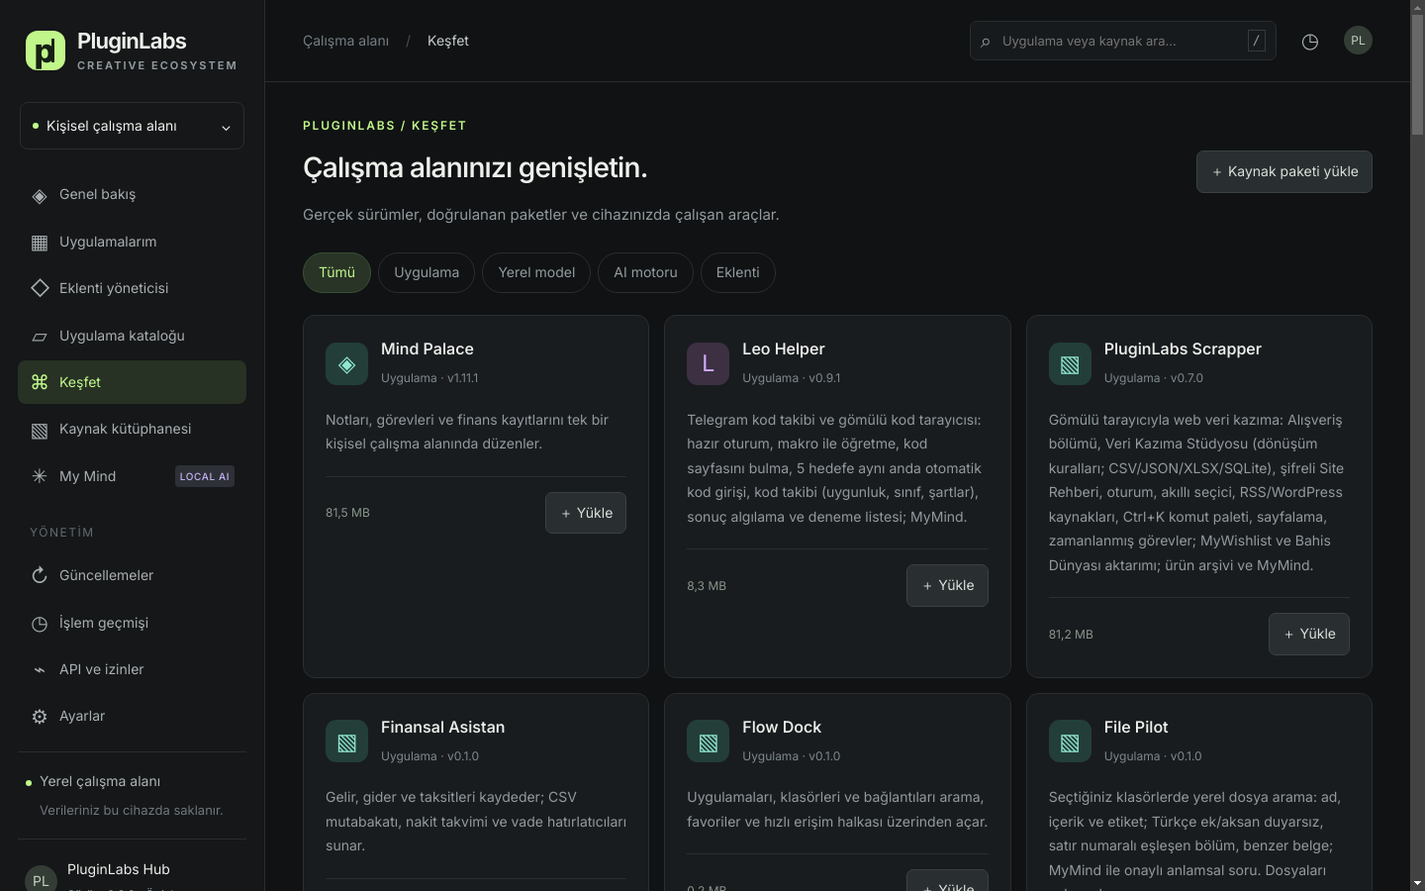
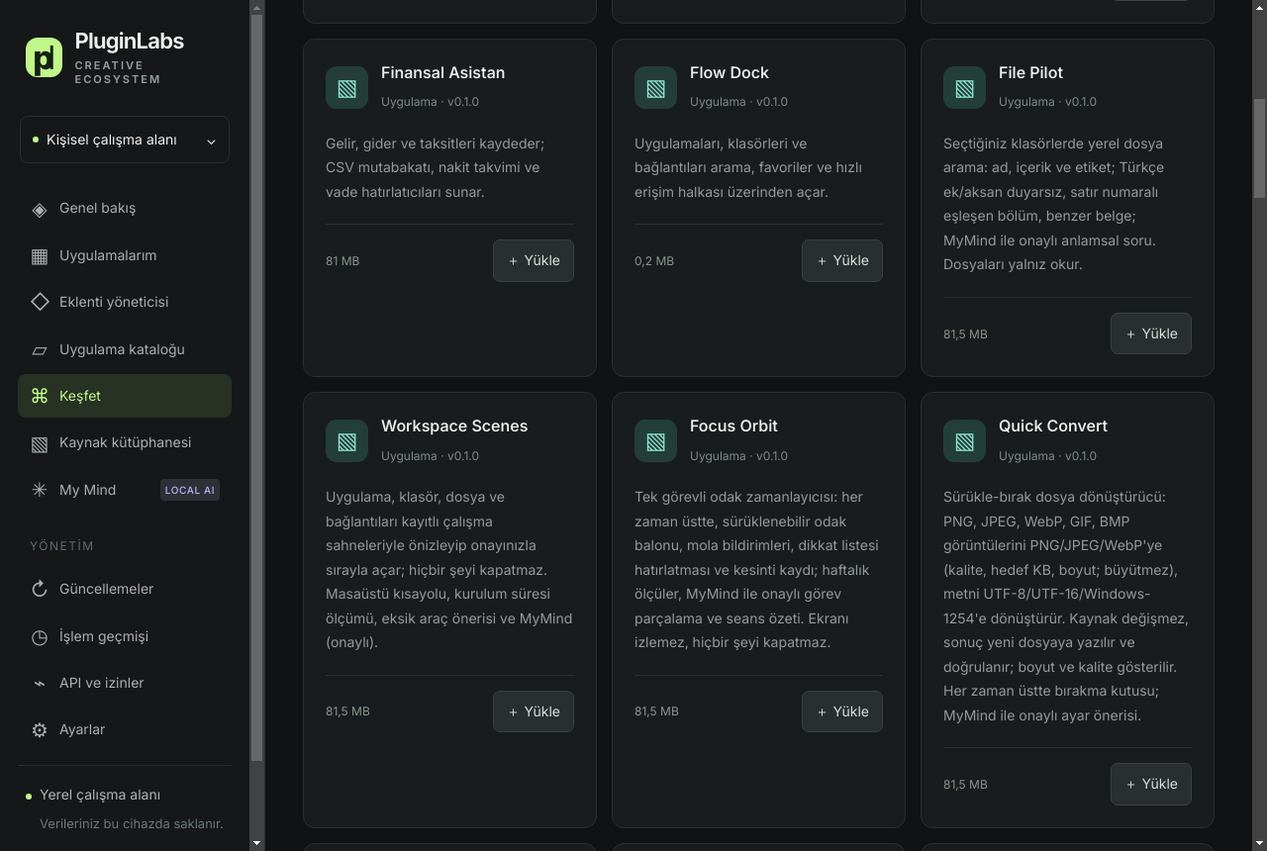
[PL-028] Quick Convert 0.1.0 yayımlandı; Hub 0.4.9 kataloğuna eklendi
- pluginlabs-dagitim quick-convert-v0.1.0 (Windows runner 41290845836: npm test +
  duman testi, vault: true; kurulum + taşınabilir exe, SHA256SUMS, BUILD-INFO,
  5 Windows ekran görüntüsü; kaynak 436a8d9)
- src/catalog.cjs: quick-convert 0.1.0 (taşınabilir exe; boyut ve SHA-256
  dağıtım deposundaki dosyadan)
- Ürün ve uygulama README'leri (Windows + Linux ekran görüntüleri), registry,
  UYGULAMALAR, AKTIF-ISLER, Hub sürüm notu, Keşfet ekran görüntüsü

Claude-Session: https://claude.ai/code/session_015ofa8BMueaPx4ZfF3x6nEK

diff --git a/apps/03-masaustu-dosya-araclari-ve-widgetlar/PL-028-quick-convert/app/README.md b/apps/03-masaustu-dosya-araclari-ve-widgetlar/PL-028-quick-convert/app/README.md
@@ -1,0 +1,74 @@
+# Quick Convert (PL-028) — Windows uygulaması
+
+> Günlük görsel ve metin dönüşümlerini farklı sitelere yüklemeden yapmak isteyenler için: dosyayı bırakın, ayarı seçin (ya da ne istediğinizi yazın), sonuç **yeni dosyaya** kaydedilsin. Kaynak dosya değişmez; dosyalar hiçbir yere yüklenmez.
+
+Ürün kartı (Notion kaynağı, kısaltılmamış): [../README.md](../README.md) · Sürüm notları: [RELEASE-NOTES.md](RELEASE-NOTES.md)
+
+**İndir (Windows, imzasız önizleme):** https://github.com/timdesigners-pixel/pluginlabs-dagitim/releases/tag/quick-convert-v0.1.0 — kurulum `QuickConvert-0.1.0-Windows-x64.exe` ya da taşınabilir `QuickConvert-0.1.0-Windows-Portable-x64.exe`; `SHA256SUMS-windows.txt` ile doğrulayın. 01.11.2026 08:56 UTC'de `pluginlabs-dagitim` iş akışıyla ([çalıştırma 41290845836](https://github.com/timdesigners-pixel/pluginlabs-dagitim/actions/runs/41290845836)) Windows runner'ında derlendi: `npm test` + gerçek Electron penceresinde duman testi geçti (Windows kasası/DPAPI etkin); kaynak commit `436a8d9`. Hub kataloğunda (Hub 0.4.9).
+
+## Ekran görüntüleri
+
+**Windows (release'i üreten Windows runner'ı, 01.11.2026, kaynak `436a8d9`, test verisi):**
+
+| Kuyruk ve sonuçlar (boyut, ölçü, kalite) | Kurala dayalı ayar önerisi |
+| --- | --- |
+| ![Windows kuyruk](docs/screenshots/windows-masaustu-01-kuyruk-ve-sonuclar.png) | ![Windows öneri](docs/screenshots/windows-masaustu-02-oneri.png) |
+| **MyMind ayar önerisi** | **Dönüşüm geçmişi** |
+| ![Windows MyMind](docs/screenshots/windows-masaustu-03-mymind-onerisi.png) | ![Windows geçmiş](docs/screenshots/windows-masaustu-04-gecmis.png) |
+| **Bırakma kutusu** | |
+| ![Windows bırakma kutusu](docs/screenshots/windows-masaustu-05-birakma-kutusu.png) | |
+
+**Linux xvfb (aynı kaynak):**
+
+Gerçek uygulama pencereleri; otomatik duman testinin test verisiyle (üretilmiş görüntüler ve metinler, taklit Hub) **Linux xvfb** üzerinde alınmıştır (01.11.2026, kaynak `436a8d9`).
+
+| Kuyruk ve sonuçlar (boyut, ölçü, kalite) | Kurala dayalı ayar önerisi |
+| --- | --- |
+| ![Kuyruk ve sonuçlar](docs/screenshots/masaustu-01-kuyruk-ve-sonuclar.png) | ![Ayar önerisi](docs/screenshots/masaustu-02-oneri.png) |
+| **MyMind ayar önerisi (onaylı, yalnız izinli alanlar)** | **Dönüşüm geçmişi** |
+| ![MyMind önerisi](docs/screenshots/masaustu-03-mymind-onerisi.png) | ![Geçmiş](docs/screenshots/masaustu-04-gecmis.png) |
+| **Bırakma kutusu (her zaman üstte)** | |
+| ![Bırakma kutusu](docs/screenshots/masaustu-05-birakma-kutusu.png) | |
+
+## Ne yapar
+- **Sürükle-bırak:** ana penceredeki alana ya da masaüstünde her zaman üstte duran, sürüklenebilir **bırakma kutusuna** bırakın (konumu hatırlanır). Bırakma kutusu isteğe bağlı olarak geçerli ayarlarla hemen dönüştürür. "Dosya seç" ve Windows'ta "Birlikte aç" da çalışır.
+- **Görüntü:** PNG, JPEG, WebP, GIF (ilk kare), BMP → PNG, JPEG, WebP. Kalite; **hedef boyut** ("en fazla … KB": kalite kendiliğinden düşürülür); kutuya sığdırma ya da yüzde (oran korunur, **asla büyütülmez**); JPEG için saydam alan rengi. Hazır ayarlar: E-posta/WhatsApp, Web (WebP), Instagram 1080×1350, Kayıpsız PNG, En fazla 200 KB.
+- **Metin kodlaması:** UTF-8, UTF-8 (BOM'lu — Excel Türkçe karakterleri doğru açsın), UTF-16 LE/BE, Windows-1254 (Türkçe ANSI). Otomatik algılama: BOM → UTF-16 deseni → katı UTF-8 doğrulaması → Windows-1254. Satır sonu CRLF/LF. Hedefte gösterilemeyen karakterler (ör. Windows-1254'te “₺”, emoji) varsayılan olarak **dönüştürmeyi durdurur** ve listelenir; izin verirseniz “?” yazılır.
+- **Kaynak korunur, çıktı doğrulanır:** kaynak yalnız okunur, öncesi/sonrası SHA-256 karşılaştırılır. Sonuç “-donusturuldu” ekli yeni dosyaya yazılır (`wx`: var olan dosyanın üzerine yazılmaz; ad doluysa -2, -3 …). Görüntü çıktısı yeniden açılır, biçimi ve ölçüleri ana süreçte denetlenir; metin geri çözülerek kaynakla birebir karşılaştırılır.
+- **Boyut ve kalite gösterilir** (Notion doğrulama ölçütü): yeni boyut ve değişim yüzdesi, piksel ölçüleri, kalite ve kaynakla karşılaştırmalı **PSNR** (dB; PNG için "kayıpsız (birebir)").
+- **Desteklenmeyen açıkça söylenir:** yürütülebilir (.exe/.dll, ELF, Mach-O), betik (#!), PDF, Office/ZIP, RAR/7z, HEIC/AVIF/MP4, TIFF, ICO, SVG **içerikten** tanınır ve nedeniyle reddedilir; uzantı içerikle uyuşmazsa uyarılır ("Uzantı .jpg ama içerik PNG"). Bozuk dosya çökme olmadan "çözülemedi" hatası verir, çıktı yazılmaz.
+- **Ayar önerisi:** "Ne istiyorsunuz?" kutusuna yazılan cümleden (ör. "e-posta için küçült", "1080 px webp, en fazla 300 KB", "Excel'de Türkçe karakterler bozuk") kurala dayalı, gerekçeli yerel öneri.
+- **MyMind (isteğe bağlı, PluginLabs Hub üzerinden):** aynı cümleden ayar önerisi. Gönderilen: yalnız ihtiyaç cümlesi ve dosyanın türü/ölçüsü/boyutu (metinde kodlama ve satır sonu). **Dosya adı, yolu ve içeriği gönderilmez.** Her istekte onay penceresi; yanıt yalnız izinli alan ve aralıklarla doğrulanır (bilinmeyen alanlar yok sayılır ve gösterilir); siz "Ayarlara uygula" demedikçe ayarlara yazılmaz. Dönüştürmeyi MyMind yapmaz.
+- **Geçmiş:** son 300 dönüşüm (biçim, boyut, ölçü, kalite, not), "Klasörde göster", toplam kazanılan alan.
+- Ctrl+K komut paleti (eylemler, hazır ayarlar, bölümler), Ctrl+Enter dönüştür, Ctrl+1–3 bölümler; hareketi azalt seçeneği (sistem ayarı da izlenir).
+
+## MyMind bağlantısı
+1. PluginLabs Hub'ı açın, My Mind motorunu başlatın.
+2. Hub → Ayarlar → API istemcileri: `mymind.chat` izniyle istemci oluşturun.
+3. Quick Convert → **MyMind bağlantısı** → anahtarı yapıştırın. Anahtar Windows kasasında (DPAPI, Electron `safeStorage`) şifreli saklanır.
+İstekler yalnız `http://127.0.0.1:47632` adresine gider (bu bilgisayar).
+
+## Kabul
+- **Otomatik (12 birim testi):** içerikten tür tanıma ve ret nedenleri, görüntü başlığından ölçü, sınırlar, boyut planı (büyütmez), çıktı adı (ezmez, Windows'ta geçersiz adlar), Windows-1254 tablosunun WHATWG/ICU çözücüsüyle 256 baytta birebir eşitliği, kodlama algılama (fazla uzun UTF-8, vekil, yarım dizi), kayıpsız gidiş-dönüş (emoji dahil), eşlenemeyen karakter raporu, satır sonu, kurala dayalı öneri, MyMind yükü (dosya adı/yolu yok) ve yanıt doğrulama.
+- **Duman testi (gerçek Electron penceresi + bırakma kutusu):** 10 gerçek dosya (2400×1600 PNG, saydam PNG, BMP, GIF, yarım PNG, `.exe` ve exe içerikli `.png`, PDF, Windows-1254 SRT, UTF-8 metin); E-posta hazır ayarıyla toplu dönüştürme (bozuk PNG hata, çökme yok); JPEG ölçüleri 1600×1067; saydamlık notu; SRT'nin UTF-8 çıktısı birebir; öneri → WebP en fazla 150 KB (çıktı ≤150 KB, 1920×1280); MyMind (ret → hiçbir şey gönderilmez; onay → yalnız cümle + 2400×1600 px; izinsiz alan yok sayılır); seçilen klasöre yazma; Windows-1254'te “₺” durdurur, izinle “?”; bırakma kutusundan hemen dönüştürme; bırakma kutusu dosya okuyamaz (yetkisiz); geçmiş, klasörde göster, komut paleti; **tüm kaynakların SHA-256'sı değişmedi**; yeniden açılışta geçmiş/ayarlar kalıcı ve şifreli; PNG çıktısı PSNR "birebir"; CSP ihlali 0.
+- **Ölçülmedi (not-run):** gerçek kullanıcı dosyalarında uzun süreli kullanım; Windows DPI, ekran okuyucu ve gerçek masaüstünde elle test; Hub üzerinden gerçek kurulum.
+
+## Kapsam dışı (bilinçli)
+HEIC/AVIF, TIFF, ICO, SVG, PDF, Office belgeleri, ses/video ve arşivler bu sürümde yok (codec lisansı ve yürütülebilir içerik riski ayrıca değerlendirilecek). Toplu kuyruk/klasör izleme (Pro), Linux/macOS paketleri sonraki aşamada.
+
+## Güvenlik ve gizlilik
+- Arayüzün ağ erişimi yok (CSP `connect-src 'none'`, `worker-src 'none'`). Ağ yalnız ana süreçte, `desktop/net.js` içinde, onaylı MyMind isteği için; yönlendirme kabul edilmez.
+- Electron: `contextIsolation`, `sandbox` açık, `nodeIntegration` kapalı; sayfaya yalnız `window.qcDesktop` açılır; her IPC pencere kimliğiyle doğrulanır, bırakma kutusu yalnız dosya ekleme/görünüm kanallarını çağırabilir (okuma/yazma çağıramaz); gezinme ve yeni pencere kilitli; izin istekleri reddedilir.
+- Bırakılan dosyanın yolu `webUtils.getPathForFile` ile alınır; ana süreç her yolu yeniden denetler (mutlak yol, normal dosya, boyut sınırı, değişmemiş boyut).
+- Geçmiş (dosya yolları) `%APPDATA%\Quick Convert\donustur.bin` içinde DPAPI ile şifreli (kasa yoksa düz `donustur.json`), atomik yazma.
+
+## Geliştirme
+```
+npm ci
+npm test                      # birim testleri
+npm start                     # uygulamayı aç
+PLAYWRIGHT_MODULE=playwright xvfb-run -a node tests/desktop-smoke.cjs docs/screenshots   # Linux duman testi
+npm run build:win             # Windows kurulum + taşınabilir exe (Windows'ta)
+node scripts/make-icons.cjs   # simgeleri yeniden üret (playwright gerekir)
+```
+Windows derlemesi ve yayın: `pluginlabs-dagitim` deposunda [`ci/pluginlabs-dagitim-quick-convert-windows.yml`](ci/pluginlabs-dagitim-quick-convert-windows.yml) (sabit kaynak commit'i; Windows runner'da test + duman testi + derleme + SHA256 + BUILD-INFO + Windows ekran görüntüleri).

diff --git a/docs/UYGULAMALAR.md b/docs/UYGULAMALAR.md
@@ -24,6 +24,7 @@ Windows sürümü GitHub release olarak yayımlanmış uygulamalar (paketler imz
 | Social Saves Organizer (PL-014) | v0.1.0 (Windows kurulum/taşınabilir, BUILD-INFO, Windows ekran görüntüleri) | https://github.com/timdesigners-pixel/social-saves-organizer/releases/tag/v0.1.0 |
 | Workspace Scenes (PL-026) | **v0.1.0** (Windows kurulum/taşınabilir, BUILD-INFO, Windows ekran görüntüleri; dağıtım deposunda) | https://github.com/timdesigners-pixel/pluginlabs-dagitim/releases/tag/workspace-scenes-v0.1.0 |
 | Focus Orbit (PL-027) | **v0.1.0** (Windows kurulum/taşınabilir, BUILD-INFO, Windows ekran görüntüleri; dağıtım deposunda) | https://github.com/timdesigners-pixel/pluginlabs-dagitim/releases/tag/focus-orbit-v0.1.0 |
+| Quick Convert (PL-028) | **v0.1.0** (Windows kurulum/taşınabilir, BUILD-INFO, Windows ekran görüntüleri; dağıtım deposunda) | https://github.com/timdesigners-pixel/pluginlabs-dagitim/releases/tag/quick-convert-v0.1.0 |
 | File Pilot (PL-025) | **v0.1.0** (Windows kurulum/taşınabilir, BUILD-INFO, BENCH, Windows ekran görüntüleri; dağıtım deposunda) | https://github.com/timdesigners-pixel/pluginlabs-dagitim/releases/tag/file-pilot-v0.1.0 |
 | Mutfak Atölyesi (PL-053) | **v0.4.1** (Android test APK + Windows x64 zip + SHA256SUMS; imzasız/test) | https://github.com/timdesigners-pixel/mutfak-atolyesi/releases/tag/v0.4.1 |
 | PluginLabs Hub | v0.3.0 (imzasız önizleme) | https://github.com/timdesigners-pixel/PluginLabs/releases/tag/v0.3.0 |
@@ -34,11 +35,12 @@ Mind Palace'ın ajan kipi (araç çağırma, görsel girdi, bilgisayar kullanım
 ## Özet
 
 - Windows sürümü yayımlanmış (GitHub release): PL-001–014, PL-053 ve Hub. PL-004–014 Windows paketleri GitHub Actions'ta Windows runner'ında derlenip otomatik duman testinden geçmiştir; gerçek Windows masaüstünde elle test, DPI ve ekran okuyucu testleri yapılmamıştır.
-- Hub kataloğunda (Hub'dan kurulabilir): Mind Palace, Leo Helper, PluginLabs Scrapper, Finansal Asistan, Flow Dock, Mutfak Atölyesi; File Pilot, Workspace Scenes ve Focus Orbit Hub 0.4.9 kataloğunda (bu PR birleşip Hub 0.4.9 yayımlanınca). PL-006–014'ün Windows sürümleri henüz `pluginlabs-dagitim` deposuna yansıtılmadı.
+- Hub kataloğunda (Hub'dan kurulabilir): Mind Palace, Leo Helper, PluginLabs Scrapper, Finansal Asistan, Flow Dock, Mutfak Atölyesi; File Pilot, Workspace Scenes, Focus Orbit ve Quick Convert Hub 0.4.9 kataloğunda (bu PR birleşip Hub 0.4.9 yayımlanınca). PL-006–014'ün Windows sürümleri henüz `pluginlabs-dagitim` deposuna yansıtılmadı.
 - 01.11.2026 zamanlanmış görev gözlemi: PL-015–024, PL-051 ve PL-052'nin Windows release'leri GitHub'da mevcut (kayıt PR'ları #24–#46 açık). PL-025 File Pilot 0.1.0 yayımlandı (ürün deposu olmadığından kaynak PluginLabs `apps/` içinde, sürüm dosyaları `pluginlabs-dagitim` deposunda).
 - PL-026 Workspace Scenes 0.1.0 yayımlandı (01.11.2026 06:42 UTC; `pluginlabs-dagitim` workspace-scenes-v0.1.0; kaynak PluginLabs `apps/` içinde). Hub 0.4.9 kataloğunda (PR birleşip Hub yayımlanınca).
 - PL-027 Focus Orbit 0.1.0 yayımlandı (01.11.2026; `pluginlabs-dagitim` focus-orbit-v0.1.0; kaynak PluginLabs `apps/` içinde). Hub 0.4.9 kataloğunda (PR birleşip Hub yayımlanınca).
-- Sıradaki (Windows sürümü yok): PL-028–050 ve PL-054 (fikir; depo yok — bu oturumlar depo oluşturamıyor; PL-025 modeli kullanılabilir).
+- PL-028 Quick Convert 0.1.0 yayımlandı (01.11.2026; `pluginlabs-dagitim` quick-convert-v0.1.0; kaynak PluginLabs `apps/` içinde). Hub 0.4.9 kataloğunda (PR birleşip Hub yayımlanınca).
+- Sıradaki (Windows sürümü yok): PL-029–050 ve PL-054 (fikir; depo yok — bu oturumlar depo oluşturamıyor; PL-025 modeli kullanılabilir).
 
 ## Tüm liste (PL-001 … PL-054)
 
@@ -71,7 +73,7 @@ Mind Palace'ın ajan kipi (araç çağırma, görsel girdi, bilgisayar kullanım
 | PL-025 | File Pilot | Windows uygulaması · **v0.1.0** (yerel dosya arama: ad/içerik/etiket, Türkçe duyarsız, eşleşen bölüm önizlemesi, benzer belge, MyMind anlamsal soru; dosyaları yalnız okur; imzasız önizleme). Kaynak PluginLabs `apps/03-…/PL-025-file-pilot/app` (ürün deposu yok) | https://github.com/timdesigners-pixel/pluginlabs-dagitim/releases/tag/file-pilot-v0.1.0 |
 | PL-026 | Workspace Scenes | Windows uygulaması · **v0.1.0** (çalışma sahneleri: bağlantı/klasör/uygulama/dosya, onaylı sıralı açılış, hiçbir şey kapatılmaz, masaüstü kısayolu, MyMind önerisi; imzasız önizleme). Kaynak PluginLabs `apps/03-…/PL-026-workspace-scenes/app` (ürün deposu yok) | https://github.com/timdesigners-pixel/pluginlabs-dagitim/releases/tag/workspace-scenes-v0.1.0 |
 | PL-027 | Focus Orbit | Windows uygulaması · **v0.1.0** (tek görevli odak zamanlayıcısı, her zaman üstte odak balonu, mola bildirimleri, dikkat listesi (hatırlatma), kesinti kaydı, haftalık ölçüler, MyMind görev parçalama/özet; imzasız önizleme). Kaynak PluginLabs `apps/03-…/PL-027-focus-orbit/app` (ürün deposu yok) | https://github.com/timdesigners-pixel/pluginlabs-dagitim/releases/tag/focus-orbit-v0.1.0 |
-| PL-028 | Quick Convert | Fikir / Hub içi önizleme (ayrı depo yok) | — |
+| PL-028 | Quick Convert | Windows uygulaması · **v0.1.0** (sürükle-bırak dönüştürücü: PNG/JPEG/WebP/GIF/BMP → PNG/JPEG/WebP, kalite/hedef KB/boyut; UTF-8/UTF-16/Windows-1254 metin kodlaması; kaynak korunur, çıktı doğrulanır; her zaman üstte bırakma kutusu; MyMind ayar önerisi; imzasız önizleme). Kaynak PluginLabs `apps/03-…/PL-028-quick-convert/app` (ürün deposu yok) | https://github.com/timdesigners-pixel/pluginlabs-dagitim/releases/tag/quick-convert-v0.1.0 |
 | PL-029 | Screenshot Studio | Fikir / Hub içi önizleme (ayrı depo yok) | — |
 | PL-030 | Daily Brief Widget | Fikir / Hub içi önizleme (ayrı depo yok) | — |
 | PL-031 | Source Trail | Fikir / Hub içi önizleme (ayrı depo yok) | — |

diff --git a/docs/ortak-calisma/AKTIF-ISLER.md b/docs/ortak-calisma/AKTIF-ISLER.md
@@ -30,3 +30,4 @@ Codex ve Claude Code işe başlamadan önce buraya satır ekler, bitince durumu 
 | PL-025 | Claude Code | `claude/optimistic-goodall-j86cw1` (zamanlanmış görev; PluginLabs) + `claude/file-pilot-v0.1.0` (pluginlabs-dagitim) | 01.11.2026 | 0.1.0 Windows uygulaması: yerel dosya arama (ad/içerik/etiket, Türkçe duyarsız, eşleşen bölüm, benzer belge, MyMind anlamsal soru). Ürün deposu yok ve bu oturum depo açamıyor → kaynak `apps/03-…/PL-025-file-pilot/app`, derleme + sürüm `pluginlabs-dagitim` iş akışında | 01.11.2026 ~04:01 UTC: `pluginlabs-dagitim` file-pilot-v0.1.0 yayımlandı (Windows runner: npm test + duman testi + paketlenmiş öz test ilk 5 %99 / p95 5,4 ms + kurulum/taşınabilir + SHA256 + BUILD-INFO + 5 Windows ekran görüntüsü; kaynak 1d9b500). Hub 0.4.9 kataloğu bu dalda; Hub yayını PR birleşince. Açık: `file-pilot` ürün deposu açılınca kaynağın taşınması |
 | PL-026 | Claude Code | `claude/optimistic-goodall-lazze9` (zamanlanmış görev; PluginLabs, #47 üzerine) + `claude/workspace-scenes-v0.1.0` (pluginlabs-dagitim, gönderilemedi) | 01.11.2026 | 0.1.0 Windows uygulaması: çalışma sahneleri (bağlantı/klasör/uygulama/dosya), önizleme + denetim, onaylı sıralı açılış (kapatma yolu yok), masaüstü kısayolu, kurulum süresi ölçümü, şablon + eksik araç önerisi, MyMind (onaylı, veri azaltılmış), JSON yedek. Kaynak `apps/03-…/PL-026-workspace-scenes/app` (PL-025 modeli) | 01.11.2026: kaynak 2154463; `npm test` 11/11 ve Electron duman testi (Linux xvfb) geçti. **Engel:** `pluginlabs-dagitim`'e yayın iş akışını göndermek otomatik oturumda izin denetimince reddedildi (herkese açık yayın). Sonraki adım: kullanıcı onayıyla `app/ci/pluginlabs-dagitim-workspace-scenes-windows.yml` dosyasını `pluginlabs-dagitim` deposunda `claude/workspace-scenes-v0.1.0` dalına `.github/workflows/` altında ekleyip göndermek → Windows runner derler/yayımlar → Hub kataloğu (SHA/boyut) · 01.11.2026 06:42 UTC (`claude/optimistic-goodall-z6wp3x`, zamanlanmış görev): **Engel kalktı** — iş akışı `pluginlabs-dagitim` `claude/workspace-scenes-v0.1.0` dalına gönderildi; workspace-scenes-v0.1.0 yayımlandı (Windows runner: npm test + duman testi + kurulum/taşınabilir + SHA256 + BUILD-INFO + 5 Windows ekran görüntüsü); Hub 0.4.9 kataloğuna eklendi (PR birleşince yayın) |
 | PL-027 | Claude Code | `claude/optimistic-goodall-93rfkg` (zamanlanmış görev; PluginLabs, #50 üzerine) + `claude/focus-orbit-v0.1.0` (pluginlabs-dagitim) | 01.11.2026 | 0.1.0 Windows uygulaması: tek görevli odak zamanlayıcısı, her zaman üstte sürüklenebilir odak balonu, mola bildirimleri, dikkat listesi (hatırlatma; engelleme yok), kullanıcı bildirimli kesinti kaydı, haftalık ölçüler, MyMind görev parçalama + seans özeti (onaylı). Ürün deposu yok → kaynak `apps/03-…/PL-027-focus-orbit/app`, derleme/yayın `pluginlabs-dagitim` | 01.11.2026: focus-orbit-v0.1.0 yayımlandı (pluginlabs-dagitim çalıştırma 41286344096, Windows runner: npm test + duman testi + kurulum/taşınabilir + SHA256 + BUILD-INFO + 5 Windows ekran görüntüsü; kaynak `56b5eba`); `src/catalog.cjs` Hub 0.4.9'a eklendi · Birleştirme ve Hub 0.4.9 yayını insan incelemesi bekliyor |
+| PL-028 | Claude Code | `claude/optimistic-goodall-9hvktj` (zamanlanmış görev; PluginLabs, #51 üzerine) + `claude/quick-convert-v0.1.0` (pluginlabs-dagitim) | 01.11.2026 | 0.1.0 Windows uygulaması: sürükle-bırak dosya dönüştürücü — görüntü (PNG/JPEG/WebP/GIF/BMP → PNG/JPEG/WebP, kalite, hedef KB, sığdır/yüzde, büyütmez, PSNR kalite ölçüsü) ve metin kodlaması (UTF-8/BOM, UTF-16, Windows-1254, satır sonu, geri çözerek kayıpsızlık doğrulaması); içerikten tür tanıma, desteklenmeyenleri açıkça reddetme, kaynak SHA-256 denetimi, yeni dosyaya yazma; her zaman üstte bırakma kutusu; kurala dayalı + MyMind (onaylı, dosya adı/içeriği gönderilmez) ayar önerisi. Ürün deposu yok → kaynak `apps/03-…/PL-028-quick-convert/app`, derleme/yayın `pluginlabs-dagitim` | 01.11.2026: Yayımlandı — quick-convert-v0.1.0 (pluginlabs-dagitim, Windows runner 41290845836: npm test + duman testi (vault: true) + kurulum/taşınabilir + SHA256 + BUILD-INFO + 5 Windows ekran görüntüsü); Hub 0.4.9 kataloğuna eklendi. Birleştirme (#47 → #49 → #50 → #51 → bu PR) ve Hub 0.4.9 yayını insan onayı bekliyor |

diff --git a/apps/03-masaustu-dosya-araclari-ve-widgetlar/PL-028-quick-convert/README.md b/apps/03-masaustu-dosya-araclari-ve-widgetlar/PL-028-quick-convert/README.md
@@ -6,11 +6,11 @@
 | --- | --- |
 | Kimlik | `PL-028` · `quick-convert` |
 | Kategori | 03 · Masaüstü, dosya araçları ve widget’lar — PL-021–030 |
-| Durum | Yeni fikir |
+| Durum | 01.11.2026: **0.1.0 Windows uygulaması yayımlandı** — [quick-convert-v0.1.0](https://github.com/timdesigners-pixel/pluginlabs-dagitim/releases/tag/quick-convert-v0.1.0) (`pluginlabs-dagitim`, Windows runner: test + duman testi + SHA256 + BUILD-INFO + Windows ekran görüntüleri); kaynak [app/](app/README.md); Hub 0.4.9 kataloğunda · Notion durumu: Yeni fikir |
 | Öncelik / efor | P1 · M |
 | Hedef platformlar | Windows, Linux, macOS |
 | Dağıtım biçimi | masaüstü uygulaması, widget |
-| Geliştirme deposu | Henüz yok — bu klasör ürünün ön geliştirme alanıdır (bkz. [repo hiyerarşisi](../../../docs/REPO-HIYERARSISI.md)) |
+| Geliştirme deposu | Henüz yok — kaynak bu klasörün [`app/`](app/README.md) alt klasöründe (ön geliştirme alanı; bkz. [repo hiyerarşisi](../../../docs/REPO-HIYERARSISI.md)); Windows derlemesi ve sürüm dosyaları `pluginlabs-dagitim` deposunda (iş akışı: [`app/ci/`](app/ci/pluginlabs-dagitim-quick-convert-windows.yml)) |
 | Codex projesi | `PL-028 · Quick Convert` — ikinci klasör: PluginLabs |
 | Notion kaynağı | [Notion](https://app.notion.com/p/4038aa13d8f98193b5c3ef18528e0c83) |
 
@@ -55,6 +55,12 @@ Desteklenen fixture’larda veri kaybı/çökme sıfır; çıktı boyutu ve kali
 ## Öncelik ve efor
 
 P1 · M; buluta yükleme gerektirmeyen temel araç.
+
+## 0.1.0 sürümü (Windows)
+
+Sürükle-bırak dosya dönüştürücü: görüntü biçimi/boyutu (PNG, JPEG, WebP, GIF, BMP → PNG, JPEG, WebP; kalite, hedef KB, kutuya sığdırma/yüzde, büyütmez) ve metin kodlaması (UTF-8, UTF-8 BOM'lu, UTF-16, Windows-1254; satır sonu). Kaynak korunur (SHA-256 denetimi), sonuç yeni dosyaya yazılır ve yeniden açılarak doğrulanır; boyut, ölçü ve kalite (PSNR) gösterilir; desteklenmeyen ve yürütülebilir içerik açıkça reddedilir. Her zaman üstte **bırakma kutusu** (widget). "Ne istiyorsunuz?" cümlesinden kurala dayalı öneri ve isteğe bağlı MyMind önerisi (Hub üzerinden, onaylı; dosya adı/içeriği gönderilmez). Ayrıntı, ekran görüntüleri ve kabul: [app/README.md](app/README.md).
+
+![Quick Convert — kuyruk ve sonuçlar (Windows)](app/docs/screenshots/windows-masaustu-01-kuyruk-ve-sonuclar.png)
 
 ## Geliştirme ve ortak çalışma (Codex + Claude Code)
 

diff --git a/RELEASE-NOTES.md b/RELEASE-NOTES.md
@@ -1,8 +1,9 @@
-PluginLabs Hub 0.4.9 — File Pilot 0.1.0, Workspace Scenes 0.1.0 ve Focus Orbit 0.1.0 kataloğa eklendi.
+PluginLabs Hub 0.4.9 — File Pilot 0.1.0, Workspace Scenes 0.1.0, Focus Orbit 0.1.0 ve Quick Convert 0.1.0 kataloğa eklendi.
 
 - Katalog: File Pilot 0.1.0 (PL-025; seçtiğiniz klasörlerde yerel dosya arama: ad/içerik/etiket, Türkçe duyarsız, eşleşen bölüm önizlemesi, benzer belge, MyMind ile onaylı anlamsal soru; dosyaları yalnız okur). SHA-256 ve boyut dağıtım deposundaki dosyayla doğrulandı.
 - Katalog: Workspace Scenes 0.1.0 (PL-026; kayıtlı çalışma sahnelerini onayla sırayla açar, hiçbir şeyi kapatmaz).
 - Katalog: Focus Orbit 0.1.0 (PL-027; tek görevli odak zamanlayıcısı, her zaman üstte sürüklenebilir odak balonu, mola bildirimleri, dikkat listesi hatırlatması, kullanıcı bildirimli kesinti kaydı, MyMind ile onaylı görev parçalama ve seans özeti). SHA-256 ve boyut dağıtım deposundaki dosyayla doğrulandı.
+- Katalog: Quick Convert 0.1.0 (PL-028; sürükle-bırak dosya dönüştürücü: PNG/JPEG/WebP/GIF/BMP → PNG/JPEG/WebP, kalite/hedef KB/boyut, UTF-8/UTF-16/Windows-1254 metin kodlaması ve satır sonu; kaynak korunur, çıktı doğrulanır; her zaman üstte bırakma kutusu; MyMind ile onaylı ayar önerisi). SHA-256 ve boyut dağıtım deposundaki dosyayla doğrulandı.
 - Hub'ın kendi davranışı değişmedi.
 
 İmzasız önizleme sürümüdür; SmartScreen uyarı verebilir. Electron ve paketleme zincirindeki güvenlik bulguları (issue #3) açıktır.
